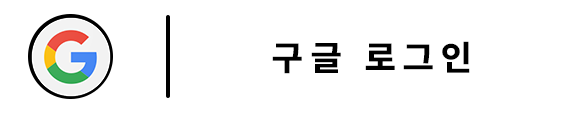
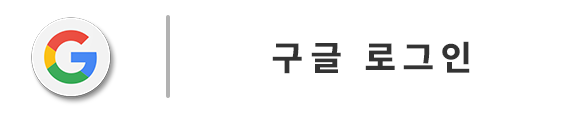
feat: after middle presentation

diff --git a/src/pages/Main.tsx b/src/pages/Main.tsx
@@ -8,6 +8,7 @@ import { supabase } from '../api/supabase';
 import { Store } from '../types/types';
 import Card from '../components/list/Card';
 import Skeleton from '@mui/material/Skeleton';
+import { useInView } from 'react-intersection-observer';
 
 const PAGE_SIZE = 5;
 
@@ -35,6 +36,8 @@ const Main = () => {
     }
   });
 
+  console.log('storesData', storesData);
+
   const observerRef = useRef(null);
 
   useEffect(() => {
@@ -60,6 +63,14 @@ const Main = () => {
 
   const allStores = storesData?.pages.flatMap((page) => page) || [];
 
+  // 언제 다음 페이지를 가져올 것
+  const { ref } = useInView({
+    threshold: 1, // 맨 아래에 교차될 때
+    onChange: (inView) => {
+      console.log('Is in view:', inView);
+    }
+  });
+
   if (isLoading) {
     // 로딩 중일 때 스켈레톤을 렌더링합니다.
     return (
@@ -72,12 +83,14 @@ const Main = () => {
         </header>
         <Masonry columns={3} spacing={2} sx={{ maxWidth: '1920px', width: '50%', margin: '0 auto' }}>
           {Array.from({ length: PAGE_SIZE }, (_, index) => (
-            <Link to="/" key={index} ref={index === PAGE_SIZE - 1 ? observerRef : null}>
+            <Link to="/" key={index}>
+              {/* <Link to="/" key={index} ref={index === PAGE_SIZE - 1 ? observerRef : null}> */}
               <Skeleton variant="rectangular" width="100%" height={300} animation="wave" />
             </Link>
           ))}
           {isFetchingNextPage && <p>Loading...</p>}
         </Masonry>
+        <div></div>
       </MainContainer>
     );
   }
@@ -95,12 +108,22 @@ const Main = () => {
       </header>
       <Masonry columns={3} spacing={2} sx={{ maxWidth: '1920px', width: '50%', margin: '0 auto' }}>
         {allStores.map((store, index) => (
-          <Link to={`detail/${store.id}`} key={store.id} ref={index === allStores.length - 1 ? observerRef : null}>
+          <Link to={`detail/${store.id}`} key={store.id}>
             <Card store={store} />
           </Link>
         ))}
         {isFetchingNextPage && <p>Loading...</p>}
       </Masonry>
+      <div
+        style={{
+          backgroundColor: 'transparent',
+          width: '90%',
+          border: 'none',
+          padding: '20px',
+          margin: '10px'
+        }}
+        ref={observerRef}
+      />
     </MainContainer>
   );
 };

diff --git a/src/components/about/AboutInfo.tsx b/src/components/about/AboutInfo.tsx
@@ -1,6 +1,8 @@
 import React from 'react';
 import { styled } from 'styled-components';
-import face1Img from '../../images/aboutFace1.png';
+import face1Img from '../../images/mimoticon1.png';
+import face2Img from '../../images/mimoticon3.png';
+import face3Img from '../../images/mimoticon2.png';
 import NewJeans from '../../images/Newjeans.png';
 
 const AboutInfo = () => {
@@ -15,13 +17,13 @@ const AboutInfo = () => {
           <Ptag>통통 튀는 다양한 팝업스토어를 추천해요!</Ptag>
         </Box>
         <Box>
-          <FaceImg src={face1Img} />
+          <FaceImg src={face2Img} />
           <ColorTag2>개성있는</ColorTag2>
           <Ptag>평소와는 다른 개성있는 장소를 가고 싶을 때</Ptag>
           <Ptag>힙팝이 추천해요!</Ptag>
         </Box>
         <Box>
-          <FaceImg src={face1Img} />
+          <FaceImg src={face3Img} />
           <ColorTag3>다양한</ColorTag3>
           <Ptag>한 가지 팝업스토어만 찾지 않아요!</Ptag>
           <Ptag>가능한 한 모두가 만족할 수 있게,</Ptag>

diff --git a/src/pages/MyPage.tsx b/src/pages/MyPage.tsx
@@ -838,12 +838,12 @@ const MypageTag = styled.div`
       height: 500px;
       border-radius: 18px;
       border: 3px solid var(--fifth-color);
-      box-sizing: border-box;
       display: flex;
       flex-direction: column;
       justify-content: center;
       align-items: center;
       background-color: #ffffff;
+      box-sizing: border-box;
       transition: color 0.3s ease, transform 0.3s ease;
       &:hover {
         border: 6px solid var(--primary-color);

diff --git a/src/shared/Layout.tsx b/src/shared/Layout.tsx
@@ -8,7 +8,7 @@ import 'react-toastify/dist/ReactToastify.css'; //
 const Layout = () => {
   return (
     <>
-      <ToastContainer position="top-center" limit={1} />
+      {/* <ToastContainer position="top-center" limit={1} /> */}
       <Header />
       <div style={{ marginTop: '5rem' }}>
         <Outlet />

diff --git a/src/components/community/main/review/RStorePosts.tsx b/src/components/community/main/review/RStorePosts.tsx
@@ -174,10 +174,6 @@ const PostBox = styled.div`
   padding: 10px;
   margin: 10px;
   display: flex;
-<<<<<<< HEAD
-=======
-
->>>>>>> e84a1b4448ff115f53348816a26674d7da0e957c
   // box-sizing: border-box;
   transition: color 0.3s ease, transform 0.3s ease;
   &:hover {

diff --git a/src/components/common/NotFound.tsx b/src/components/common/NotFound.tsx
@@ -21,7 +21,7 @@ const Layout = styled.div`
   min-width: 800px;
   margin: 0 auto;
   width: 50%;
-  height: 600px;
+  height: 900px;
   display: flex;
   justify-content: space-between;
   align-items: center;

diff --git a/src/pages/Login.tsx b/src/pages/Login.tsx
@@ -137,5 +137,6 @@ const LoginTag = styled.div`
   .list > img {
     width: 200px;
     border-radius: 8px;
+    box-shadow: 4px 4px 10px rgba(45, 45, 45, 0.665);
   }
 `;
